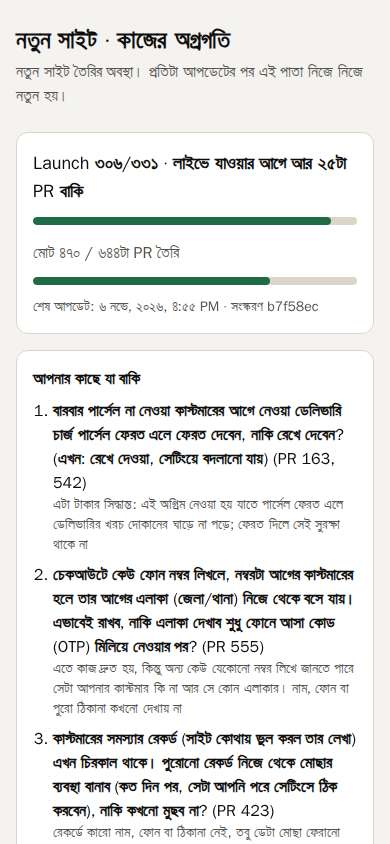
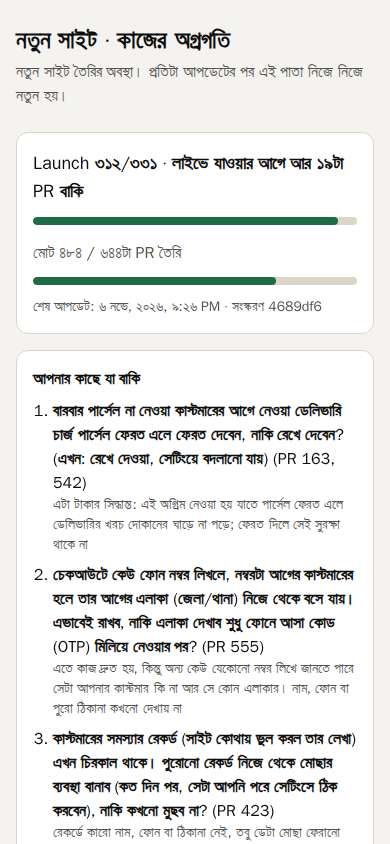
deploy report: 4689df67c695 OK [skip ci]

diff --git a/docs/reports/smoke/latest/README.md b/docs/reports/smoke/latest/README.md
@@ -1,8 +1,8 @@
-# Smoke test · 2026-11-06 16:55 (Asia/Dhaka)
+# Smoke test · 2026-11-06 21:26 (Asia/Dhaka)
 
-> **বাংলায়:** সব পাতা ঠিকমতো খুলেছে (466টা পাতা, ফোন আর কম্পিউটারে)। কোনো সমস্যা নেই।
+> **বাংলায়:** সব পাতা ঠিকমতো খুলেছে (480টা পাতা, ফোন আর কম্পিউটারে)। কোনো সমস্যা নেই।
 
-Site: https://new.extas.com.bd · commit `b7f58ec7bfb7` · after deploy · result **PASS** (466 page views, 0 failed)
+Site: https://new.extas.com.bd · commit `4689df67c695` · after deploy · result **PASS** (480 page views, 0 failed)
 
 | Page | Screen | Answer | Landed on | Result | Screenshot |
 |---|---|:-:|---|---|---|
@@ -204,6 +204,10 @@ Site: https://new.extas.com.bd · commit `b7f58ec7bfb7` · after deploy · resul
 | `/admin/marketing/ad-platforms/growth` | phone | 200 | `/admin/marketing/ad-platforms/growth` | ok | — |
 | `/admin/marketing/ad-platforms/briefs` | phone | 200 | `/admin/marketing/ad-platforms/briefs` | ok | — |
 | `/admin/marketing/ad-platforms/campaigns` | phone | 200 | `/admin/marketing/ad-platforms/campaigns` | ok | — |
+| `/admin/website/words` | phone | 200 | `/admin/website/words` | ok | — |
+| `/admin/website/eye-toggles` | phone | 200 | `/admin/website/eye-toggles` | ok | — |
+| `/admin/reports/experiments` | phone | 200 | `/admin/reports/experiments` | ok | — |
+| `/admin/reports/experiments/new` | phone | 200 | `/admin/reports/experiments/new` | ok | — |
 | `/admin/website/layouts?page=category` | phone | 200 | `/admin/website/layouts` | ok | — |
 | `/admin/website/layouts?page=product` | phone | 200 | `/admin/website/layouts` | ok | — |
 | `/admin/website/layouts?page=bag` | phone | 200 | `/admin/website/layouts` | ok | — |
@@ -232,10 +236,13 @@ Site: https://new.extas.com.bd · commit `b7f58ec7bfb7` · after deploy · resul
 | `/admin/website/blog/briefs/new` | phone | 200 | `/admin/website/blog/briefs/new` | ok | — |
 | `/admin/website/blog/calendar` | phone | 200 | `/admin/website/blog/calendar` | ok | — |
 | `/admin/website/blog/performance` | phone | 200 | `/admin/website/blog/performance` | ok | — |
+| `/admin/website/blog/comments` | phone | 200 | `/admin/website/blog/comments` | ok | — |
+| `/admin/website/blog/shared` | phone | 200 | `/admin/website/blog/shared` | ok | — |
+| `/admin/website/blog/sold` | phone | 200 | `/admin/website/blog/sold` | ok | — |
 | `/admin/orders/01a1b032-d25d-70a0-b458-65294d975ba5` | phone | 200 | `/admin/orders/01a1b032-d25d-70a0-b458-65294d975ba5` | ok | — |
 | `/admin/customers/01a1b032-d25a-7191-8fbd-45590858cc74` | phone | 200 | `/admin/customers/01a1b032-d25a-7191-8fbd-45590858cc74` | ok | — |
-| `/admin/reports/health/problems/01a19736-6e8e-7b80-86b7-22cbef71bfa5` | phone | 200 | `/admin/reports/health/problems/01a19736-6e8e-7b80-86b7-22cbef71bfa5` | ok | — |
-| `/admin/reports/health/history/01a1b05f-8877-7ac1-9d93-acdb2626acb9` | phone | 200 | `/admin/reports/health/history/01a1b05f-8877-7ac1-9d93-acdb2626acb9` | ok | — |
+| `/admin/reports/health/problems/01a19735-6496-70c1-9ccd-6741cd32073a` | phone | 200 | `/admin/reports/health/problems/01a19735-6496-70c1-9ccd-6741cd32073a` | ok | — |
+| `/admin/reports/health/history/01a1b087-679d-75b3-bf8d-46e4f8ad56c3` | phone | 200 | `/admin/reports/health/history/01a1b087-679d-75b3-bf8d-46e4f8ad56c3` | ok | — |
 | `/admin/customers/01a1b032-d25a-7191-8fbd-45590858cc74?tab=wallet` | phone | 200 | `/admin/customers/01a1b032-d25a-7191-8fbd-45590858cc74` | ok | — |
 | `/admin/combos?tab=report` | phone | 200 | `/admin/combos` | ok | — |
 | `/admin?home=1` | phone | 200 | `/admin` | ok | [picture](admin-home-1-phone.jpg) |
@@ -437,6 +444,10 @@ Site: https://new.extas.com.bd · commit `b7f58ec7bfb7` · after deploy · resul
 | `/admin/marketing/ad-platforms/growth` | desktop | 200 | `/admin/marketing/ad-platforms/growth` | ok | — |
 | `/admin/marketing/ad-platforms/briefs` | desktop | 200 | `/admin/marketing/ad-platforms/briefs` | ok | — |
 | `/admin/marketing/ad-platforms/campaigns` | desktop | 200 | `/admin/marketing/ad-platforms/campaigns` | ok | — |
+| `/admin/website/words` | desktop | 200 | `/admin/website/words` | ok | — |
+| `/admin/website/eye-toggles` | desktop | 200 | `/admin/website/eye-toggles` | ok | — |
+| `/admin/reports/experiments` | desktop | 200 | `/admin/reports/experiments` | ok | — |
+| `/admin/reports/experiments/new` | desktop | 200 | `/admin/reports/experiments/new` | ok | — |
 | `/admin/website/layouts?page=category` | desktop | 200 | `/admin/website/layouts` | ok | — |
 | `/admin/website/layouts?page=product` | desktop | 200 | `/admin/website/layouts` | ok | — |
 | `/admin/website/layouts?page=bag` | desktop | 200 | `/admin/website/layouts` | ok | — |
@@ -465,10 +476,13 @@ Site: https://new.extas.com.bd · commit `b7f58ec7bfb7` · after deploy · resul
 | `/admin/website/blog/briefs/new` | desktop | 200 | `/admin/website/blog/briefs/new` | ok | — |
 | `/admin/website/blog/calendar` | desktop | 200 | `/admin/website/blog/calendar` | ok | — |
 | `/admin/website/blog/performance` | desktop | 200 | `/admin/website/blog/performance` | ok | — |
+| `/admin/website/blog/comments` | desktop | 200 | `/admin/website/blog/comments` | ok | — |
+| `/admin/website/blog/shared` | desktop | 200 | `/admin/website/blog/shared` | ok | — |
+| `/admin/website/blog/sold` | desktop | 200 | `/admin/website/blog/sold` | ok | — |
 | `/admin/orders/01a1b032-d25d-70a0-b458-65294d975ba5` | desktop | 200 | `/admin/orders/01a1b032-d25d-70a0-b458-65294d975ba5` | ok | — |
 | `/admin/customers/01a1b032-d25a-7191-8fbd-45590858cc74` | desktop | 200 | `/admin/customers/01a1b032-d25a-7191-8fbd-45590858cc74` | ok | — |
-| `/admin/reports/health/problems/01a19736-6e8e-7b80-86b7-22cbef71bfa5` | desktop | 200 | `/admin/reports/health/problems/01a19736-6e8e-7b80-86b7-22cbef71bfa5` | ok | — |
-| `/admin/reports/health/history/01a1b05f-8877-7ac1-9d93-acdb2626acb9` | desktop | 200 | `/admin/reports/health/history/01a1b05f-8877-7ac1-9d93-acdb2626acb9` | ok | — |
+| `/admin/reports/health/problems/01a19735-6496-70c1-9ccd-6741cd32073a` | desktop | 200 | `/admin/reports/health/problems/01a19735-6496-70c1-9ccd-6741cd32073a` | ok | — |
+| `/admin/reports/health/history/01a1b087-679d-75b3-bf8d-46e4f8ad56c3` | desktop | 200 | `/admin/reports/health/history/01a1b087-679d-75b3-bf8d-46e4f8ad56c3` | ok | — |
 | `/admin/customers/01a1b032-d25a-7191-8fbd-45590858cc74?tab=wallet` | desktop | 200 | `/admin/customers/01a1b032-d25a-7191-8fbd-45590858cc74` | ok | — |
 | `/admin/combos?tab=report` | desktop | 200 | `/admin/combos` | ok | — |
 | `/admin?home=1` | desktop | 200 | `/admin` | ok | [picture](admin-home-1-desktop.jpg) |

diff --git a/docs/reports/server/deploy-latest.md b/docs/reports/server/deploy-latest.md
@@ -4,13 +4,13 @@ Written by `deploy.yml` after every deploy (`infra/deploy/deploy-report.sh`). Hi
 
 | | |
 |---|---|
-| Commit | `4e537e761e7e` |
-| Time (Asia/Dhaka) | 2026-11-06 20:30 |
-| Result | **FAILED, ROLLED BACK** |
+| Commit | `4689df67c695` |
+| Time (Asia/Dhaka) | 2026-11-06 21:45 |
+| Result | **OK** |
 | Database migration | ok |
-| Health check on new.extas.com.bd | OK — HTTP 200 from https://new.extas.com.bd/api/health, version 4e537e761e7e, colour blue |
-| Smoke test (every page) | FAILED — the smoke test did not finish (exit 124) |
-| Docs on the server | `4e537e761e7e` — README.md + docs/ (2395 files) |
+| Health check on new.extas.com.bd | OK — HTTP 200 from https://new.extas.com.bd/api/health, version 4689df67c695, colour blue |
+| Smoke test (every page) | OK — 480 page views, signed out and as the admin, phone and desktop (storefront pictures: `docs/reports/smoke/latest/`; the admin pictures stay on the server) |
+| Docs on the server | `4689df67c695` — README.md + docs/ (2395 files) |
 | Main disk (/) | 118 GB free after the clean-up (was 118 GB), at least 15 GB needed |
-| What failed | The new version went live, but the smoke test found a problem (the smoke test did not finish (exit 124)), so the previous version was put back automatically. The fix comes before any new work. |
-| Run log | https://github.com/mehadih32/Extas-Ecommerce-Site/actions/runs/42229264201 |
+| Live colour | blue |
+| Run log | https://github.com/mehadih32/Extas-Ecommerce-Site/actions/runs/42242415311 |

diff --git a/docs/reports/erp-acceptance/latest/README.md b/docs/reports/erp-acceptance/latest/README.md
@@ -2,5 +2,5 @@
 
 **সারকথা:** ডেমো ERP-এর চাবির অপেক্ষায়। মালিক সেটিংস → ERP সংযোগ পাতায় ডেমো দোকানের চাবি দিলে প্রতি রাতে আর প্রতিটা রিলিজের আগে এই পরীক্ষা চলবে।
 
-- 2026-11-06T13:58:58.508Z: waiting for the demo key. Nothing was called; nothing failed.
+- 2026-11-06T15:25:39.308Z: waiting for the demo key. Nothing was called; nothing failed.
 - The practice ERP runs every check in CI (packages/adapters/test/erp-acceptance.test.ts, the books drills).

diff --git a/docs/reports/server/deploy-history.md b/docs/reports/server/deploy-history.md
@@ -94,3 +94,4 @@ One line per deploy, newest last, appended by `deploy.yml`. Time: Asia/Dhaka.
 | 2026-11-06 16:20 | `0ba61d503d06` | deploy | OK | ok | OK, smoke OK | — |
 | 2026-11-06 17:03 | `b7f58ec7bfb7` | deploy | OK | ok | OK, smoke OK | — |
 | 2026-11-06 20:30 | `4e537e761e7e` | deploy | FAILED, ROLLED BACK | ok | OK, smoke FAILED | The new version went live, but the smoke test found a problem (the smoke test did not finish (exit 124)), so the previous version was put back automatically. The fix comes before any new work. |
+| 2026-11-06 21:45 | `4689df67c695` | deploy | OK | ok | OK, smoke OK | — |
